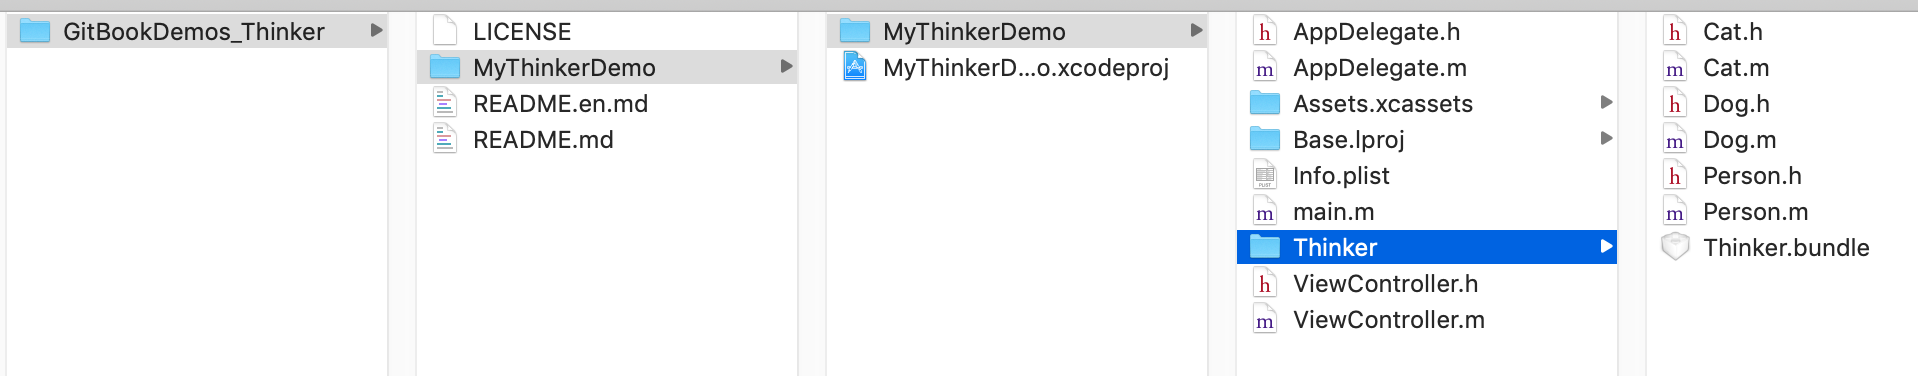
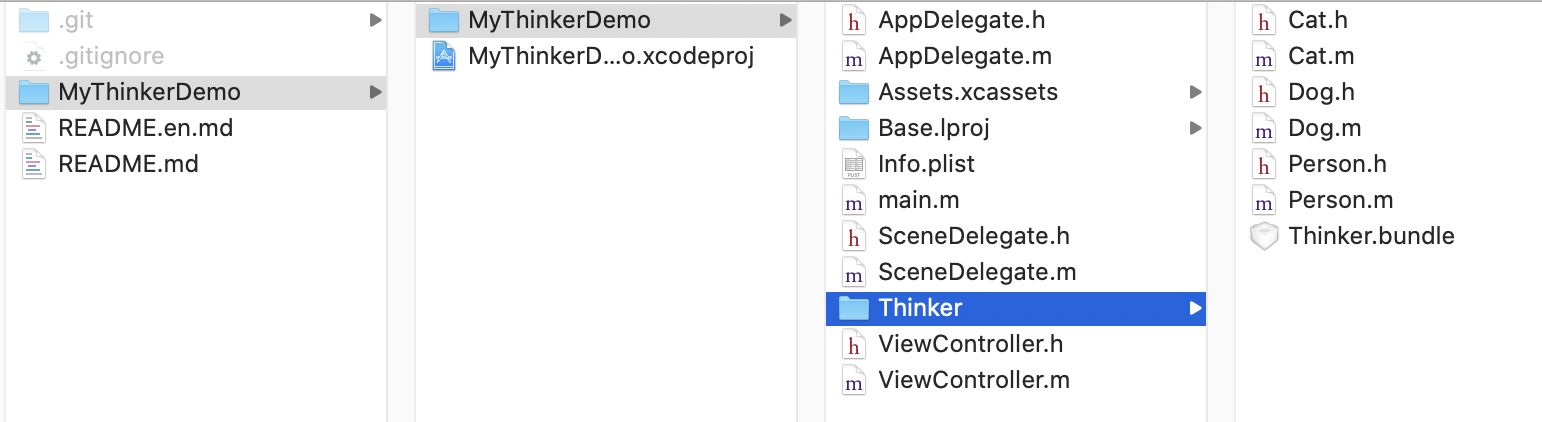
change pod learn

Changed region(s): [[0.0, 0.0, 1.0, 0.9362], [0.5292, 0.4388, 0.6226, 0.5266], [0.6537, 0.4388, 0.7471, 0.4973]]

diff --git a/CoreAnimation/demo/demo/DemoContentsVC.swift b/CoreAnimation/demo/demo/DemoContentsVC.swift
@@ -96,6 +96,7 @@ class DemoContentsVC: UIViewController {
         // ======================================================================
         //                        drawLayer绘制寄宿图
         // ======================================================================
+        // TODO://Now
     }
     
     @objc

diff --git a/配置/Pod/私有Pod.md b/配置/Pod/私有Pod.md
@@ -1,4 +1,4 @@
-# 私有Pod
+私有Pod
 
 [官网Private Pods](http://guides.cocoapods.org/making/private-cocoapods.html)
 
@@ -48,7 +48,7 @@ MyPrivateRepo
 
 ### 2. 创建需要引用的资源
 
-接下来我们建一个git项目：[GitBookDemos_Thinker](https://gitee.com/aCommonChinese/GitBookDemos_Thinker.git), 在此目录下建个工程
+接下来我们建一个git项目：[MyThinker](https://gitee.com/aCommonChinese/MyThinker), 在此目录下建个工程
 ![](images/2.png)
 ![](images/3.png)
 
@@ -58,10 +58,10 @@ git add *
 git commit -m "Init"
 git push
 git tag 1.0.0
-git push --tag
+git push --tag # 上传tag
 ```
 
-###3. 创建podspec文件，引用资源
+### 3. 创建podspec文件，引用资源
 
 `pod spec create Thinker`
 这会生成Thinker.podspec文件，内容：
@@ -69,13 +69,13 @@ git push --tag
 ```ruby
 Pod::Spec.new do |s|
     s.name         = 'Thinker' #此名字应当和文件名相同，即文件名为Thinker.podspec, 此name当为Thinker
-    s.version      = '1.0.0'
+    s.version      = '1.0.0' #这里的version和tag保持一致
     s.summary      = 'pod summary here'
-    s.homepage     = 'https://gitee.com/aCommonChinese/GitBookDemos_Thinker/'
+    s.homepage     = 'https://gitee.com/aCommonChinese/MyThinker/'
     s.license      = 'MIT'
     s.authors      = {'aCommonChinese' => 'liuxing8807@126.com'}
-    s.platform     = :ios, '7.0'
-    s.source       = {:git => "https://gitee.com/aCommonChinese/GitBookDemos_Thinker.git", :tag => s.version}
+    s.platform     = :ios, '10.0'
+    s.source       = {:git => "https://gitee.com/aCommonChinese/MyThinker.git", :tag => s.version}
     s.source_files = 'MyThinkerDemo/MyThinkerDemo/Thinker/*.{h,m}'
     s.resource     = 'MyThinkerDemo/MyThinkerDemo/Thinker/Thinker.bundle'
     s.frameworks   = "UIKit"
@@ -83,7 +83,7 @@ Pod::Spec.new do |s|
 end
 ```
 
-###4. 把podspec文件上传到私有索引库
+### 4. 把podspec文件上传到私有索引库
 
 可以参见：<a href="#file:///提交本地Pod.html">提交本地Pod</a>
 
@@ -97,7 +97,7 @@ pod repo push MyPrivateRepo
 这样上传之后我们可以打开：`open ~/.cocoapods/repos`, 发现：
 ![](images/4.png)
 
-###5. 使用私有库
+### 5. 使用私有库
 使用前可以通过pod search查询：
 
 ```
@@ -114,13 +114,13 @@ pod search Thinker
 接下来新建一项目，编辑Podfile：
 ```ruby
 source 'https://github.com/CocoaPods/Specs.git' #官方source
-source 'https://gitee.com/aCommonChinese/MyPrivteRepo.git' #注意此source必须添加，否则找不到Thinker
+source 'https://gitee.com/aCommonChinese/MyPrivateRepo.git' #注意此source必须添加，否则找不到Thinker
 platform :ios, '7.0'
 
 target 'UseThinkerDemo' do
   use_frameworks!
   #pod 'AFNetworking'
-  pod 'Thinker' # 注：这里不需要指定版本号，否则：[!] A dependency with an external source may not specify version requirements (Thinker).
+  pod 'Thinker', '1.0.0'
 end
 ```
 
@@ -141,10 +141,24 @@ end
 ### 6. 移除私有库
 `pod repo remove [name]`
 
-###遇到的错误
+---------------------------------------------------------------
+
+### 续 升级podspec
+git的tag不区分branch，tag必须是唯一的，因为可以在分支上打tag，然后上传
+基本上只需要修改version即可，然后调用 `pod repo push --allow-warnings MyPrivateRepo Thinker.podspec ` 重新上传
+
+![](images/6.png)
+
+
+### 遇到的错误
 使用pod search可以找到，但使用pod install时出现：`Unable to find a specification for ...`
 参见：[https://cloud.tencent.com/developer/article/1336298](https://cloud.tencent.com/developer/article/1336298)
 
+[!] The spec did not pass validation, due to 2 warnings (but you can use `--allow-warnings` to ignore them).
+
+```shell
+pod repo push --allow-warnings MyPrivateRepo Thinker.podspec 
+```
 
 参考链接：
 
